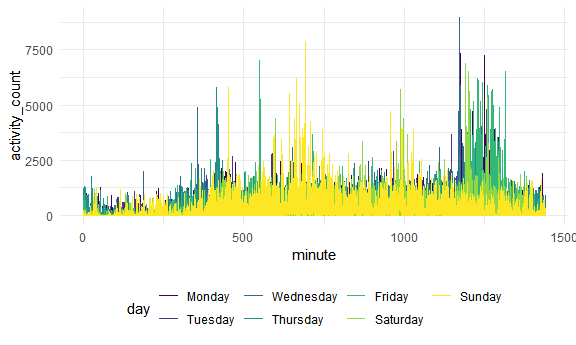
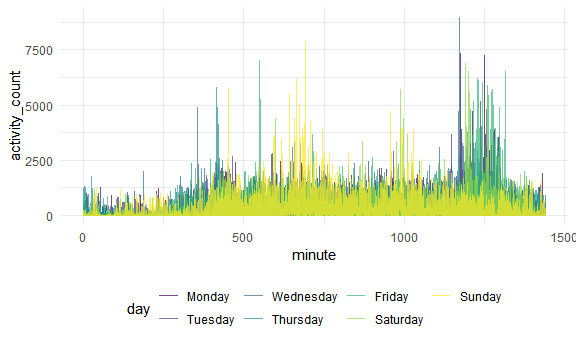
Final commit

Changed region(s): [[0.125, 0.1739, 0.9688, 0.6377]]

diff --git a/p8105_hw3_ma3997.md b/p8105_hw3_ma3997.md
@@ -158,10 +158,11 @@ accel_df
     ## 10     1      2 Monday weekday             10              1
     ## # ... with 50,390 more rows
 
-This dataset
-
-Pivot longer, havnig something for activity count and minute, add
-variable with mutate, reasonable order and names,
+This dataset contains the amount of activity one subject exerted over a
+number of days. The accel\_df has 6 variables that include day, whether
+it was the weekend or not, the minute of the day, and the amount of
+activity recorded. In this dataset, there were50400 observations - one
+for each second of the day for 35 days.
 
 ``` r
 accel_df %>% 
@@ -210,26 +211,23 @@ accel_df %>%
 |    5 | Saturday  |   1440.00 |
 |    5 | Sunday    | 138421.00 |
 
-Aggregrate with group by week and then day and summarize with mean or
-sum to end up with table with 35 days and activity count for each of
-those days. Make table easier to read with week number and day of the
-week. Trends apparent that just point out busy weeks or slow weeks Day
-of the week is gonna be in alpha order so need to use factors to reorder
+Analyzing the total activity count for the 35 days shows that there are
+several outliers. On two Saturdays, the subject recorded the baseline
+amount of activity. The first Monday of the trial also recorded a very
+low amount of activity.
 
 ``` r
 accel_df %>% 
   ggplot(aes(x = minute, y =activity_count, color = day))+
-  geom_line()
+  geom_line(alpha = .7)
 ```
 
 <img src="p8105_hw3_ma3997_files/figure-gfm/part 2.3-1.png" width="90%" />
 
-Little activity during 500 - 1200 minutes especially during work week
-
-Make a plot. Want to see activity at each minute of each day. Minute on
-x and activity count on y. Scatterplot wont work. geom\_line is a little
-bit better. Aesthetic mapping for color = day of week. Is minute of the
-day a numeric or factor or character?
+The subject recorded little activity between 10:00AM (or \~600 minutes)
+and 6:30PM (or \~1100 minutes). The subject did have a frequent high
+peak during the work week around 9pm. Sundays the subject exerted more
+activity during the middle fo the day in comparison to other days.
 
 ## Question 3
 
@@ -239,7 +237,9 @@ library(hexbin)
 library(ggridges)
 library(patchwork)
 data("ny_noaa")
+```
 
+``` r
 ny_noaa_df = 
   ny_noaa %>% 
   janitor::clean_names() %>%
@@ -247,32 +247,40 @@ ny_noaa_df =
   mutate(
     tmin = as.numeric(tmin),
     tmax = as.numeric(tmax),
-    prcp = prcp * 0.01,
-    tmin = tmin * 0.01,
-    tmax = tmax * 0.01
-  )
+    prcp = prcp * 0.1,
+    tmax = tmax * 0.1,
+    tmin = tmin * 0.1
+    )
 
-count(ny_noaa_df, snow)
+count(ny_noaa_df, snow) %>% 
+  arrange(-n)
 ```
 
     ## # A tibble: 282 x 2
     ##     snow       n
     ##    <int>   <int>
-    ##  1   -13       1
-    ##  2     0 2008508
-    ##  3     3    8790
-    ##  4     5    9748
-    ##  5     8    9962
-    ##  6    10    5106
-    ##  7    13   23095
-    ##  8    15    3672
-    ##  9    18    3226
-    ## 10    20    4797
+    ##  1     0 2008508
+    ##  2    NA  381221
+    ##  3    25   31022
+    ##  4    13   23095
+    ##  5    51   18274
+    ##  6    76   10173
+    ##  7     8    9962
+    ##  8     5    9748
+    ##  9    38    9197
+    ## 10     3    8790
     ## # ... with 272 more rows
 
-Separate y-m-d into year and month and day variables. Convert prcp and
-snowfall to an easier to comprehend value range. use count to find most
-common
+This is a large dataset that has 2595176 observations and 9 variables
+including: weather station, day, month, year, min and max temperature,
+amount of rainfall, amount of snowfall, and snow density. There are
+numerous stations that are missing records on precipitation,
+temperature, and snowfall throughout the years. Precipation values were
+converted to mm from tenths of
+
+The most common amount of reported snowfall was either 0mm or NA.
+Certainly the expected distribution since the NY regions experiences
+more days without snowfall than days with it.
 
 ``` r
 panel_df= 
@@ -284,7 +292,7 @@ panel_df=
   geom_point(alpha = .5)+
   geom_path()+
   facet_grid(. ~ month)+
-  labs(title = "Mean temperature for January and July across stations and years", x = "year", y = "average maximum temperature (C)")+
+  labs(title = "Mean max temperature for January and July across stations and years", x = "year", y = "average maximum temperature (C)")+
   theme(legend.position = "none", axis.text.x = element_text(angle = 90, vjust = 0.5, hjust = 1))
 ```
 
@@ -300,15 +308,22 @@ panel_df
 
 <img src="p8105_hw3_ma3997_files/figure-gfm/part 3.2-1.png" width="90%" />
 
-Group by station, year, and month and summarize to get max temp. Filter
-at some point, either way it will wrok Plot. Facet to get two panels
+The mean maximum temperature among these weather stations shows that
+January 1994 and 2004 were particularly cold winters. However, the max
+temperatures in January at these weather stations seems to be trending
+warmer.
+
+The July 2010 max temperatures were some of the highest recorded for
+that month since this dataset first started recording.
 
 ``` r
 hex_panel_df = 
   ny_noaa_df %>% 
   ggplot(aes(x = tmin, y = tmax))+
   geom_hex()+
-  labs(title = "Daily max temperatures versus daily min temperatures")
+  labs(title = "Daily max temperatures versus daily min temperatures")+
+  guides(fill = guide_colorbar(barwidth = 12))+
+  theme(plot.title = element_text(hjust = 0.5))
 
 hex_panel_df
 ```
@@ -323,7 +338,7 @@ box_panel_df =
   filter(snow %in% c(1:99)) %>% 
   ggplot(aes( x = snow, y = year, group = year))+
   geom_boxplot()+
-  theme(legend.position = "none")+
+  theme(legend.position = "none", plot.title = element_text(hjust = 0.5))+
   labs(title = "Yearly amount of snowfall")
 
 box_panel_df
@@ -338,7 +353,3 @@ hex_panel_df + box_panel_df
     ## Warning: Removed 1136276 rows containing non-finite values (stat_binhex).
 
 <img src="p8105_hw3_ma3997_files/figure-gfm/part 3.3-3.png" width="90%" />
-
-use patchwork to combine plots. First one could be hex plot or contour
-plot instead of scatterplot. For second filter first, and then use
-boxplot, ridge plot, violin plot
